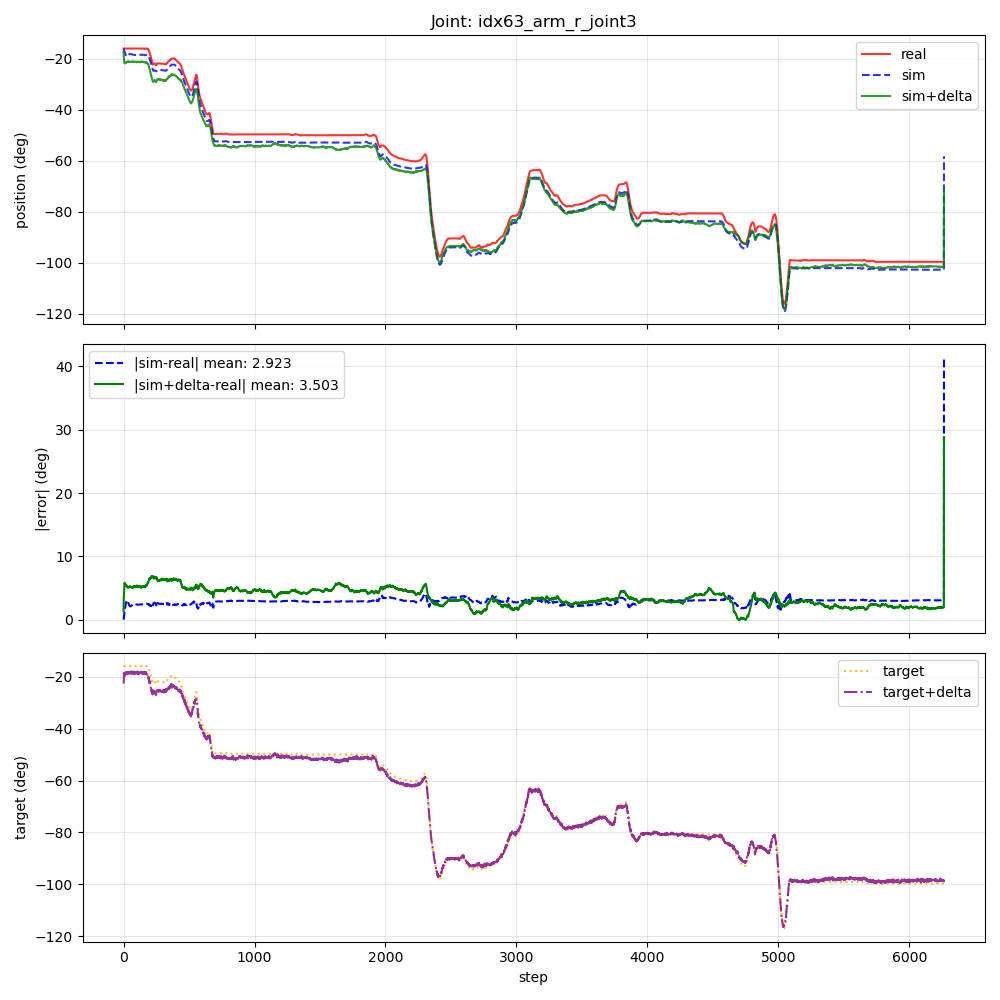
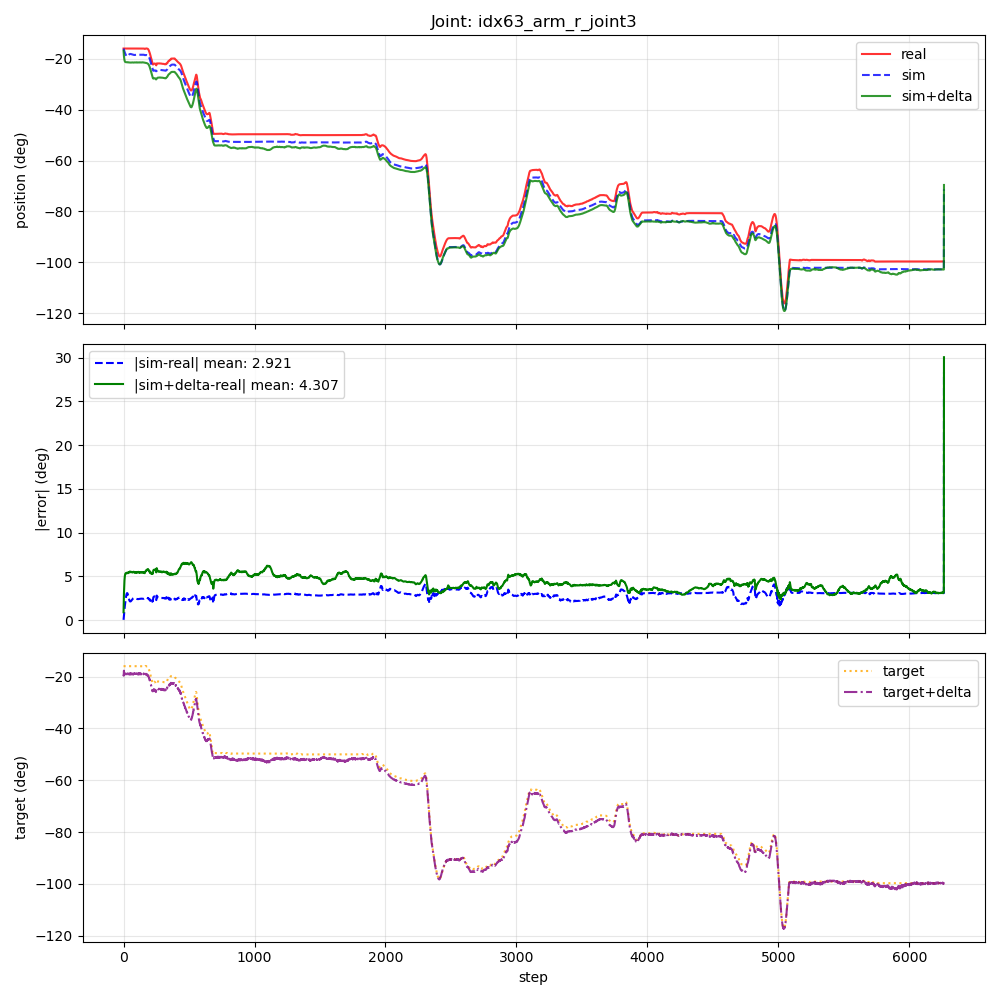
correct play.py in agibot

diff --git a/gaponet/source/sim2real/sim2real/tasks/humanoid_agibot/humanoid_agibot_env.py b/gaponet/source/sim2real/sim2real/tasks/humanoid_agibot/humanoid_agibot_env.py
@@ -257,12 +257,18 @@ class HumanoidOperatorEnv(DirectRLEnv):
 
     def solve_fk(self, dof_positions: torch.Tensor):
         ret = self.robot_chain.forward_kinematics(dof_positions[:, self.joint_usd_to_fk_chain])
-        eff_names = ["L_hand_base_link", "R_hand_base_link"]
+        eff_names = ["arm_l_end_link", "arm_r_end_link"]  # last arm links; gripper/head excluded from training
 
         trans = []
         for eff in eff_names:
             trans.append(ret[eff].get_matrix()[:, :3, 3])
         return trans
+
+    def _expand_motion_to_full_joints(self, motion_joint_pos: torch.Tensor) -> torch.Tensor:
+        """Expand motion-loader joint positions (14 joints) to full robot joint tensor required by solve_fk."""
+        full = torch.zeros(motion_joint_pos.shape[0], len(self.robot_joint_names), device=self.device)
+        full[:, self.motion_joint_ids] = motion_joint_pos
+        return full
 
     def init_play_environments(self, reload_motion: bool = False):
         self.obs_history = []
@@ -294,6 +300,10 @@ class HumanoidOperatorEnv(DirectRLEnv):
         self.play_data = [[] for _ in range(self.num_envs)]
         # Track how many times each motion has been run
         self.motion_run_counts = torch.zeros(self._motion_loader.motion_num, dtype=torch.long, device=self.device)
+        self.play_done = False  # set True when all motions have min_runs; checked by play.py loop
+        # play_motion_filter: list of motion indices to evaluate; None means all motions
+        if not hasattr(self, 'play_motion_filter'):
+            self.play_motion_filter = None
 
     def _pre_physics_step(self, actions: torch.Tensor): 
         self.actions = actions.clone()    # shape: (num_envs, 10)
@@ -323,13 +333,17 @@ class HumanoidOperatorEnv(DirectRLEnv):
 
         # update time_indices
         self.time_indices += 1
+        # clamp to valid range to avoid out-of-bounds when at the last frame
+        safe_time_indices = torch.min(self.time_indices, self._motion_loader.motion_len[self.motion_indices] - 1)
 
         if self.mode == "play":
             # print("================== sim_dof_positions is not None: ", self._motion_loader.sim_dof_positions is not None, "==================")
             if self._motion_loader.sim_dof_positions is not None:
-                sim_left_hand_pos, sim_right_hand_pos = self.solve_fk(self._motion_loader.sim_dof_positions[self.motion_indices, self.time_indices])
+                sim_left_hand_pos, sim_right_hand_pos = self.solve_fk(
+                    self._expand_motion_to_full_joints(self._motion_loader.sim_dof_positions[self.motion_indices, safe_time_indices]))
             left_hand_pos, right_hand_pos = self.solve_fk(self.robot.data.joint_pos)
-            target_left_hand_pos, target_right_hand_pos = self.solve_fk(self._motion_loader.dof_positions[self.motion_indices, self.time_indices])
+            target_left_hand_pos, target_right_hand_pos = self.solve_fk(
+                self._expand_motion_to_full_joints(self._motion_loader.dof_positions[self.motion_indices, safe_time_indices]))
             for i in range(self.num_envs):
                 if self.cfg.record_sim_mode:
                     self.play_data[i].append({
@@ -338,21 +352,21 @@ class HumanoidOperatorEnv(DirectRLEnv):
                     continue
                 self.play_data[i].append({
                     "delta_joint_pos": self.robot.data.joint_pos[i:i+1, self.motion_joint_ids].clone().cpu().numpy(),
-                    "real_joint_pos": self._motion_loader.dof_positions[self.motion_indices[i:i+1], self.time_indices[i:i+1]][:, self._motion_loader.joint_sequence_index].clone().cpu().numpy(),
-                    "joint_target_pos": self._motion_loader.dof_target_pos[self.motion_indices[i:i+1], self.time_indices[i:i+1]][:, self._motion_loader.joint_sequence_index].clone().cpu().numpy(),
+                    "real_joint_pos": self._motion_loader.dof_positions[self.motion_indices[i:i+1], safe_time_indices[i:i+1]][:, self._motion_loader.joint_sequence_index].clone().cpu().numpy(),
+                    "joint_target_pos": self._motion_loader.dof_target_pos[self.motion_indices[i:i+1], safe_time_indices[i:i+1]][:, self._motion_loader.joint_sequence_index].clone().cpu().numpy(),
                     "joint_pos_diff": self.robot.data.joint_pos[i:i+1, self.motion_joint_ids_wo_wrist].clone().cpu().numpy()
-                        - self._motion_loader.dof_positions[self.motion_indices[i:i+1], self.time_indices[i:i+1]][:, self._motion_loader.joint_sequence_wo_wrist].clone().cpu().numpy(),
+                        - self._motion_loader.dof_positions[self.motion_indices[i:i+1], safe_time_indices[i:i+1]][:, self._motion_loader.joint_sequence_wo_wrist].clone().cpu().numpy(),
                     "payload_mass": self._motion_loader.payload_sequence[self.motion_indices[i:i+1]].clone().cpu().item(),
                     "hand_marker": self._motion_loader.hand_marker[self.motion_indices[i:i+1]].clone().cpu().item() if self._motion_loader.hand_marker is not None else None,
-                    
+
                     "left_hand_pos": left_hand_pos[i:i+1].clone().cpu().numpy(),
                     "right_hand_pos": right_hand_pos[i:i+1].clone().cpu().numpy(),
                     "target_left_hand_pos": target_left_hand_pos[i:i+1].clone().cpu().numpy(),
                     "target_right_hand_pos": target_right_hand_pos[i:i+1].clone().cpu().numpy(),
                 })
                 if self._motion_loader.sim_dof_positions is not None:
-                    self.play_data[i][-1]['sim_joint_pos'] = self._motion_loader.sim_dof_positions[self.motion_indices[i:i+1], self.time_indices[i:i+1]][:, self._motion_loader.joint_sequence_index].clone().cpu().numpy()
-                    self.play_data[i][-1]['sim_joint_pos_diff'] = self._motion_loader.dof_positions[self.motion_indices[i:i+1], self.time_indices[i:i+1]][:, self._motion_loader.joint_sequence_wo_wrist].clone().cpu().numpy() - self._motion_loader.sim_dof_positions[self.motion_indices[i:i+1], self.time_indices[i:i+1]][:, self._motion_loader.joint_sequence_wo_wrist].clone().cpu().numpy()
+                    self.play_data[i][-1]['sim_joint_pos'] = self._motion_loader.sim_dof_positions[self.motion_indices[i:i+1], safe_time_indices[i:i+1]][:, self._motion_loader.joint_sequence_index].clone().cpu().numpy()
+                    self.play_data[i][-1]['sim_joint_pos_diff'] = self._motion_loader.dof_positions[self.motion_indices[i:i+1], safe_time_indices[i:i+1]][:, self._motion_loader.joint_sequence_wo_wrist].clone().cpu().numpy() - self._motion_loader.sim_dof_positions[self.motion_indices[i:i+1], safe_time_indices[i:i+1]][:, self._motion_loader.joint_sequence_wo_wrist].clone().cpu().numpy()
                     self.play_data[i][-1]['sim_left_hand_pos'] = sim_left_hand_pos[i:i+1].clone().cpu().numpy()
                     self.play_data[i][-1]['sim_right_hand_pos'] = sim_right_hand_pos[i:i+1].clone().cpu().numpy()
                 if self._motion_loader.joint_index is not None:
@@ -390,10 +404,12 @@ class HumanoidOperatorEnv(DirectRLEnv):
             # progress print
             counts = {i: self.motion_run_counts[i].item() for i in range(self._motion_loader.motion_num)}
             print("Motion run counts:", counts)
-            # stop when each motion has exactly min_runs (or more, but we'll prevent sampling more)
-            if all(self.motion_run_counts[i].item() >= self.min_runs for i in range(self._motion_loader.motion_num)):
-                self.close()
-                exit()
+            # determine which motions to care about
+            target_motions = list(range(self._motion_loader.motion_num)) if self.play_motion_filter is None else self.play_motion_filter
+            # stop when each target motion has min_runs
+            if all(self.motion_run_counts[i].item() >= self.min_runs for i in target_motions):
+                self.play_done = True
+                return
 
         # Sample motion indices
         # NOTE: In play mode, we ensure each motion runs exactly min_runs times.
@@ -402,12 +418,15 @@ class HumanoidOperatorEnv(DirectRLEnv):
             # Ensure motion_run_counts is initialized
             if not hasattr(self, 'motion_run_counts'):
                 self.motion_run_counts = torch.zeros(self._motion_loader.motion_num, dtype=torch.long, device=self.device)
-            # Get available motions (those that haven't reached min_runs)
-            available_motions = torch.where(self.motion_run_counts < self.min_runs)[0]
+            # build candidate pool: only target motions that haven't reached min_runs
+            target_motions = list(range(self._motion_loader.motion_num)) if self.play_motion_filter is None else self.play_motion_filter
+            target_tensor = torch.tensor(target_motions, dtype=torch.long, device=self.device)
+            under_sampled = target_tensor[self.motion_run_counts[target_tensor] < self.min_runs]
+            available_motions = under_sampled
             if len(available_motions) == 0:
                 # All motions have reached min_runs, should have exited above, but just in case
-                self.close()
-                exit()
+                self.play_done = True
+                return
             
             # Sample from available motions
             num_to_sample = len(env_ids)
@@ -786,7 +805,7 @@ class HumanoidOperatorEnv(DirectRLEnv):
                 f.write("\n".join(combined_lines))
     def close(self):
         super().close()
-        if self.mode == "play":
+        if self.mode == "play" and getattr(self, "play_done", False):
             print("save figures")
             # plot and save
             from .utils.plot_play import plot_joint_positions, plot_joint_velocity, plot_joint_torque, plot_joint_acc
@@ -801,15 +820,18 @@ class HumanoidOperatorEnv(DirectRLEnv):
 
             print(self.play_data_history.keys())
 
-            # validate we have at least min_runs per motion
-            for i in range(self._motion_loader.motion_num):
+            # determine which motions were evaluated
+            target_motions = list(range(self._motion_loader.motion_num)) if getattr(self, 'play_motion_filter', None) is None else self.play_motion_filter
+
+            # validate we have at least min_runs per target motion
+            for i in target_motions:
                 if len(self.play_data_history.get(str(i), [])) < self.min_runs:
                     raise ValueError(f"Motion {i} has only {len(self.play_data_history.get(str(i), []))} runs, expected at least {self.min_runs}")
 
             # save raw sim pose if recording
             if self.cfg.record_sim_mode:
                 all_sim_joint_pos = []
-                for m in range(self._motion_loader.motion_num):
+                for m in target_motions:
                     for seq in self.play_data_history[str(m)]:
                         all_sim_joint_pos.append(np.stack([r["delta_joint_pos"] for r in seq])[:, 0])
                 np.savez(os.path.join(save_path, "all_sim_joint_pos.npz"), all_sim_joint_pos=np.array(all_sim_joint_pos, dtype=object))
@@ -822,7 +844,7 @@ class HumanoidOperatorEnv(DirectRLEnv):
 
             # plots: plot the first run of each motion for brevity
             episode_datas = []
-            for i in range(self._motion_loader.motion_num):
+            for i in target_motions:
                 if str(i) not in self.play_data_history:
                     raise ValueError(f"Motion {i} not found in play_data_history")
                 raw = self.play_data_history[str(i)][0]

diff --git a/gaponet/scripts/reinforcement_learning/rsl_rl/play.py b/gaponet/scripts/reinforcement_learning/rsl_rl/play.py
@@ -19,8 +19,7 @@ parser = argparse.ArgumentParser(description="Train an RL agent with RSL-RL.")
 parser.add_argument("--video", action="store_true", default=False, help="Record videos during training.")
 parser.add_argument("--video_length", type=int, default=200, help="Length of the recorded video (in steps).")
 parser.add_argument(
-    "--disable_fabric", action="store_true", default=False, help="Disable fabric and use USD I/O operations."
-)
+    "--disable_fabric", action="store_true", default=False, help="Disable fabric and use USD I/O operations.")
 parser.add_argument("--num_envs", type=int, default=None, help="Number of environments to simulate.")
 parser.add_argument("--task", type=str, default=None, help="Name of the task.")
 parser.add_argument(
@@ -29,6 +28,14 @@ parser.add_argument(
     help="Use the pre-trained checkpoint from Nucleus.",
 )
 parser.add_argument("--real-time", action="store_true", default=False, help="Run in real-time, if possible.")
+parser.add_argument(
+    "--motion-indices",
+    type=int,
+    nargs="+",
+    default=None,
+    metavar="N",
+    help="Indices of motions to evaluate (e.g. --motion-indices 0 1 2). Defaults to all motions.",
+)
 # append RSL-RL cli arguments
 cli_args.add_rsl_rl_args(parser)
 # append AppLauncher cli args
@@ -59,6 +66,8 @@ from isaaclab.utils.pretrained_checkpoint import get_published_pretrained_checkp
 
 from isaaclab_rl.rsl_rl import RslRlOnPolicyRunnerCfg, RslRlVecEnvWrapper, export_policy_as_jit, export_policy_as_onnx
 import sim2real
+import sim2real.tasks.humanoid_operator  # noqa: F401 — triggers gym.register
+import sim2real.tasks.humanoid_agibot    # noqa: F401 — triggers gym.register
 import isaaclab_tasks  # noqa: F401
 from isaaclab_tasks.utils import get_checkpoint_path, parse_env_cfg
 
@@ -70,6 +79,10 @@ def main():
         args_cli.task, device=args_cli.device, num_envs=args_cli.num_envs, use_fabric=not args_cli.disable_fabric
     )
     agent_cfg: RslRlOnPolicyRunnerCfg = cli_args.parse_rsl_rl_cfg(args_cli.task, args_cli)
+
+    # set env to play mode so _compute_metrics() is triggered (Gap Range / IQR / MPJAE etc.)
+    if hasattr(env_cfg, "mode"):
+        env_cfg.mode = "play"
 
     # specify directory for logging experiments
     log_root_path = os.path.join("logs", "rsl_rl", agent_cfg.experiment_name)
@@ -89,6 +102,11 @@ def main():
 
     # create isaac environment
     env = gym.make(args_cli.task, cfg=env_cfg, render_mode="rgb_array" if args_cli.video else None)
+
+    # restrict which motions are evaluated
+    if args_cli.motion_indices is not None:
+        env.unwrapped.play_motion_filter = args_cli.motion_indices
+        print(f"[INFO] Evaluating motions: {args_cli.motion_indices}")
 
     # convert to single-agent instance if required by the RL algorithm
     if isinstance(env.unwrapped, DirectMARLEnv):
@@ -159,18 +177,23 @@ def main():
 
     # export policy to onnx/jit
     export_model_dir = os.path.join(os.path.dirname(resume_path), "exported")
-    export_policy_as_jit(
-        ppo_runner.alg.actor_critic, ppo_runner.obs_normalizer, path=export_model_dir, filename="policy.pt"
-    )
-    export_policy_as_onnx(
-        ppo_runner.alg.actor_critic, normalizer=ppo_runner.obs_normalizer, path=export_model_dir, filename="policy.onnx"
-    )
+    _actor_critic = getattr(ppo_runner.alg, "actor_critic", None) or getattr(ppo_runner.alg, "policy", None)
+    try:
+        export_policy_as_jit(
+            _actor_critic, ppo_runner.obs_normalizer, path=export_model_dir, filename="policy.pt"
+        )
+        export_policy_as_onnx(
+            _actor_critic, normalizer=ppo_runner.obs_normalizer, path=export_model_dir, filename="policy.onnx"
+        )
+    except (AttributeError, Exception) as e:
+        print(f"[INFO] Skipping policy export (not supported for this architecture): {e}")
 
     dt = env.unwrapped.physics_dt
 
     # reset environment
     obs, _ = env.get_observations()
     timestep = 0
+    play_done = False
     # simulate environment
     while simulation_app.is_running():
         start_time = time.time()
@@ -180,6 +203,12 @@ def main():
             actions = policy(obs)
             # env stepping
             obs, _, _, _ = env.step(actions)
+
+        # in play mode the env sets play_done=True when all motions have min_runs
+        if getattr(env.unwrapped, "play_done", False):
+            play_done = True
+            break
+
         if args_cli.video:
             timestep += 1
             # Exit the play loop after recording one video
@@ -191,7 +220,7 @@ def main():
         if args_cli.real_time and sleep_time > 0:
             time.sleep(sleep_time)
 
-    # close the simulator
+    # close the simulator (triggers _compute_metrics if play_done)
     env.close()
 
 

diff --git a/gaponet/source/sim2real/sim2real/tasks/humanoid_agibot/humanoid_agibot_env_cfg.py b/gaponet/source/sim2real/sim2real/tasks/humanoid_agibot/humanoid_agibot_env_cfg.py
@@ -49,9 +49,9 @@ class HumanoidOperatorEnvCfg(DirectRLEnvCfg):
     state_space = 0
 
     # action regularization
-    action_l2_coef = 1        # weight on ||delta_action||^2 inside _reward_tracking
-    smoothness_coef = 10            # weight on _reward_delta_smoothness in total reward
-    smoothness_threshold = 4e-1      # dead-zone threshold (rad^2); changes below this are not penalized
+    action_l2_coef = 0.5       # weight on ||delta_action||^2 inside _reward_tracking
+    smoothness_coef = 16            # weight on _reward_delta_smoothness in total reward
+    smoothness_threshold = 1e-4      # dead-zone threshold (rad^2); changes below this are not penalized
 
     early_termination = True
     termination_height = 0.8
